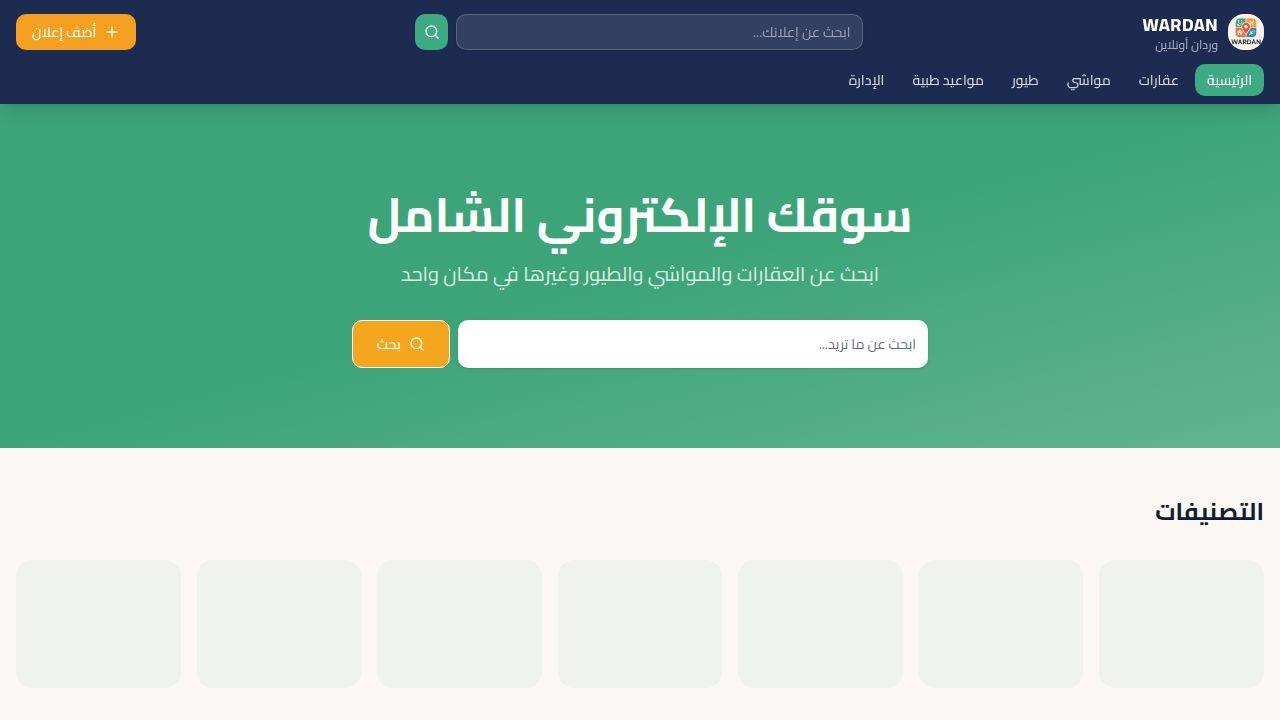
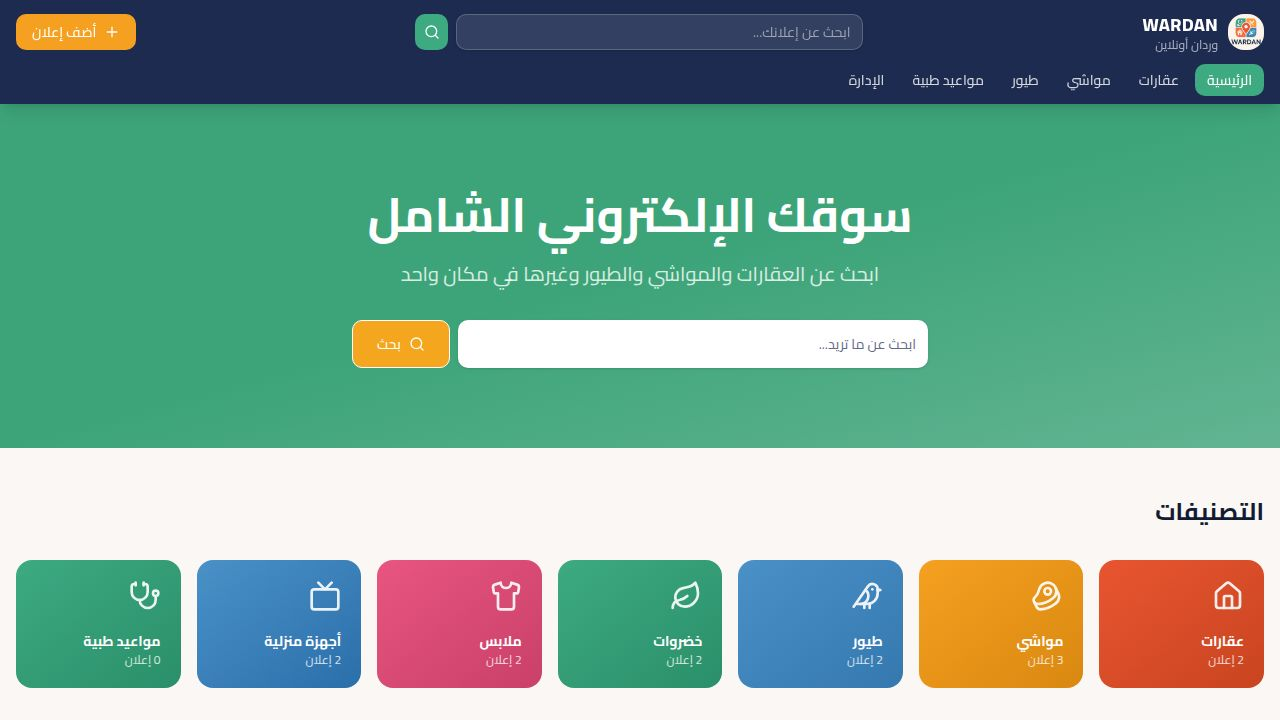
Update marketplace to use Egyptian currency and locations
Refactors the codebase to replace Saudi Riyal (SAR) and Yemen-specific locations with Egyptian Pound (EGP) and Egyptian cities across various components and pages, including ListingCard, AddListing, Admin, Category, Doctors, and ListingDetail.

Replit-Commit-Author: Agent
Replit-Commit-Session-Id: 6a27c6cc-7ffd-476c-9b55-e3b8159887a9
Replit-Commit-Checkpoint-Type: full_checkpoint
Replit-Commit-Event-Id: 85142e92-9a7f-4c68-bf30-9f4f275b54c6
Replit-Commit-Screenshot-Url: https://storage.googleapis.com/screenshot-production-us-central1/6e5a2011-e370-4b2a-b846-126150565a71/6a27c6cc-7ffd-476c-9b55-e3b8159887a9/ftIgsid
Replit-Helium-Checkpoint-Created: true

Changed region(s): [[0.0, 0.7639, 1.0, 0.9778]]

diff --git a/artifacts/wardan-online/src/pages/AddListing.tsx b/artifacts/wardan-online/src/pages/AddListing.tsx
@@ -48,10 +48,10 @@ const categories = [
   { slug: "doctors",         nameAr: "مواعيد طبية",  icon: "🩺" },
 ];
 
-const yemenCities = [
-  "صنعاء", "عدن", "تعز", "الحديدة", "إب", "ذمار", "مأرب", "حضرموت",
-  "شبوة", "أبين", "لحج", "الضالع", "البيضاء", "الجوف", "عمران",
-  "ريمة", "المحويت", "حجة", "صعدة", "المهرة", "سقطرى",
+const egyptCities = [
+  "وردان", "منوف", "شبين الكوم", "المنوفية", "بركة السبع",
+  "أشمون", "السادات", "القاهرة", "الإسكندرية", "الجيزة",
+  "طنطا", "المنصورة", "الزقازيق", "دمياط", "بني سويف",
 ];
 
 interface UploadedImage {
@@ -84,7 +84,7 @@ export default function AddListing() {
     resolver: zodResolver(schema),
     defaultValues: {
       titleAr: "", categorySlug: "", descriptionAr: "",
-      price: "", priceUnit: "ريال", city: "", location: "",
+      price: "", priceUnit: "جنيه", city: "وردان", location: "",
       sellerName: "", phoneNumber: "", whatsappNumber: "",
     },
   });
@@ -263,7 +263,7 @@ export default function AddListing() {
                   <FormLabel className="text-base font-semibold">عنوان الإعلان *</FormLabel>
                   <FormControl>
                     <Input
-                      placeholder="مثال: شقة للبيع في صنعاء - 3 غرف"
+                      placeholder="مثال: شقة للبيع في وردان - 3 غرف"
                       className="h-12 text-base"
                       {...field}
                       data-testid="input-title"
@@ -323,9 +323,10 @@ export default function AddListing() {
                       </SelectTrigger>
                     </FormControl>
                     <SelectContent>
-                      <SelectItem value="ريال">ريال يمني</SelectItem>
-                      <SelectItem value="دولار">دولار</SelectItem>
-                      <SelectItem value="ريال سعودي">ريال سعودي</SelectItem>
+                      <SelectItem value="جنيه">جنيه مصري</SelectItem>
+                      <SelectItem value="جنيه/شهر">جنيه / شهر</SelectItem>
+                      <SelectItem value="جنيه/رأس">جنيه / رأس</SelectItem>
+                      <SelectItem value="جنيه/كيلو">جنيه / كيلو</SelectItem>
                       <SelectItem value="للتفاوض">للتفاوض</SelectItem>
                     </SelectContent>
                   </Select>
@@ -349,7 +350,7 @@ export default function AddListing() {
                       </SelectTrigger>
                     </FormControl>
                     <SelectContent className="max-h-60">
-                      {yemenCities.map((c) => (
+                      {egyptCities.map((c) => (
                         <SelectItem key={c} value={c}>{c}</SelectItem>
                       ))}
                     </SelectContent>
@@ -513,7 +514,7 @@ export default function AddListing() {
                     <FormControl>
                       <Input
                         type="tel"
-                        placeholder="967XXXXXXXXX"
+                        placeholder="201XXXXXXXXX"
                         dir="ltr"
                         className="h-12 text-left border-[#25D366]/40 focus-visible:ring-[#25D366]"
                         {...field}

diff --git a/artifacts/wardan-online/src/pages/Admin.tsx b/artifacts/wardan-online/src/pages/Admin.tsx
@@ -271,7 +271,7 @@ function PendingSection({ onInvalidate }: { onInvalidate: () => void }) {
                 {listing.price != null && (
                   <span className="flex items-center gap-1">
                     <DollarSign className="h-3 w-3" />
-                    {listing.price.toLocaleString("ar-SA")} {listing.priceUnit ?? ""}
+                    {listing.price.toLocaleString("ar-EG")} {listing.priceUnit ?? ""}
                   </span>
                 )}
                 {(listing.location ?? (listing as { city?: string }).city) && (
@@ -605,7 +605,7 @@ function AppointmentsSection() {
             </div>
             <div className="space-y-1.5">
               <Label>رقم واتساب *</Label>
-              <Input placeholder="967XXXXXXXXX" dir="ltr" value={form.whatsappNumber}
+              <Input placeholder="201XXXXXXXXX" dir="ltr" value={form.whatsappNumber}
                 onChange={(e) => setForm({ ...form, whatsappNumber: e.target.value })}
                 required data-testid="input-doctor-whatsapp" />
             </div>
@@ -616,7 +616,7 @@ function AppointmentsSection() {
             </div>
             <div className="space-y-1.5">
               <Label>موقع العيادة</Label>
-              <Input placeholder="صنعاء - حي الروضة" value={form.clinicLocation}
+              <Input placeholder="وردان - المنوفية" value={form.clinicLocation}
                 onChange={(e) => setForm({ ...form, clinicLocation: e.target.value })} />
             </div>
             <div className="space-y-1.5">
@@ -656,7 +656,7 @@ function AppointmentsSection() {
                     <span className="flex items-center gap-1"><MapPin className="h-3 w-3" />{appt.clinicLocation}</span>
                   )}
                   {appt.consultationFee != null && (
-                    <span className="flex items-center gap-1"><DollarSign className="h-3 w-3" />{appt.consultationFee} ريال</span>
+                    <span className="flex items-center gap-1"><DollarSign className="h-3 w-3" />{appt.consultationFee} جنيه</span>
                   )}
                 </div>
               </div>
@@ -907,7 +907,7 @@ function AdminUsersSection() {
                       <Badge className="bg-primary/10 text-primary hover:bg-primary/10 text-xs">{u.role}</Badge>
                     </td>
                     <td className="p-3 text-muted-foreground text-xs hidden md:table-cell">
-                      {new Date(u.created_at).toLocaleDateString("ar-SA")}
+                      {new Date(u.created_at).toLocaleDateString("ar-EG")}
                     </td>
                     <td className="p-3">
                       <button

diff --git a/artifacts/wardan-online/src/pages/Category.tsx b/artifacts/wardan-online/src/pages/Category.tsx
@@ -28,10 +28,10 @@ const SORT_OPTIONS = [
   { value: "price_desc", label: "السعر: الأعلى" },
 ];
 
-const YEMEN_CITIES = [
-  "الكل", "صنعاء", "عدن", "تعز", "الحديدة", "إب", "ذمار", "مأرب",
-  "حضرموت", "شبوة", "أبين", "لحج", "الضالع", "البيضاء",
-  "الجوف", "عمران", "ريمة", "المحويت", "حجة", "صعدة",
+const EGYPT_CITIES = [
+  "الكل", "وردان", "منوف", "شبين الكوم", "المنوفية", "بركة السبع",
+  "أشمون", "السادات", "القاهرة", "الإسكندرية", "الجيزة",
+  "طنطا", "المنصورة", "الزقازيق", "دمياط",
 ];
 
 function CardSkeleton() {
@@ -189,7 +189,7 @@ export default function Category() {
                     <SelectValue />
                   </SelectTrigger>
                   <SelectContent className="max-h-60">
-                    {YEMEN_CITIES.map((c) => (
+                    {EGYPT_CITIES.map((c) => (
                       <SelectItem key={c} value={c}>{c}</SelectItem>
                     ))}
                   </SelectContent>

diff --git a/artifacts/wardan-online/src/pages/ListingDetail.tsx b/artifacts/wardan-online/src/pages/ListingDetail.tsx
@@ -45,7 +45,7 @@ export default function ListingDetail() {
   }
 
   const whatsappUrl = `https://wa.me/${listing.whatsappNumber.replace(/\D/g, "")}`;
-  const formattedDate = new Date(listing.createdAt).toLocaleDateString("ar-SA", {
+  const formattedDate = new Date(listing.createdAt).toLocaleDateString("ar-EG", {
     year: "numeric",
     month: "long",
     day: "numeric",
@@ -97,7 +97,7 @@ export default function ListingDetail() {
           {listing.price && (
             <div className="flex items-center gap-2 text-primary font-bold text-2xl" data-testid="text-listing-price">
               <DollarSign className="h-6 w-6" />
-              <span>{Number(listing.price).toLocaleString("ar-SA")}</span>
+              <span>{Number(listing.price).toLocaleString("ar-EG")}</span>
               {listing.priceUnit && <span className="text-base font-normal text-muted-foreground">{listing.priceUnit}</span>}
             </div>
           )}

diff --git a/artifacts/wardan-online/src/components/ListingCard.tsx b/artifacts/wardan-online/src/components/ListingCard.tsx
@@ -120,7 +120,7 @@ export default function ListingCard({ listing, showStatus = false }: ListingCard
 
           {listing.price != null && (
             <span className="absolute bottom-2 right-2 bg-primary text-primary-foreground text-sm font-bold px-3 py-1 rounded-full shadow">
-              {listing.price.toLocaleString("ar-SA")}
+              {listing.price.toLocaleString("ar-EG")}
               {listing.priceUnit && <span className="font-normal text-xs mr-1">{listing.priceUnit}</span>}
             </span>
           )}

diff --git a/artifacts/wardan-online/src/pages/Doctors.tsx b/artifacts/wardan-online/src/pages/Doctors.tsx
@@ -50,7 +50,7 @@ export default function Doctors() {
                   {doctor.consultationFee && (
                     <div className="flex items-center gap-2 text-primary font-semibold mb-4">
                       <DollarSign className="h-4 w-4" />
-                      <span>{Number(doctor.consultationFee).toLocaleString("ar-SA")} ريال</span>
+                      <span>{Number(doctor.consultationFee).toLocaleString("ar-EG")} جنيه</span>
                     </div>
                   )}
 